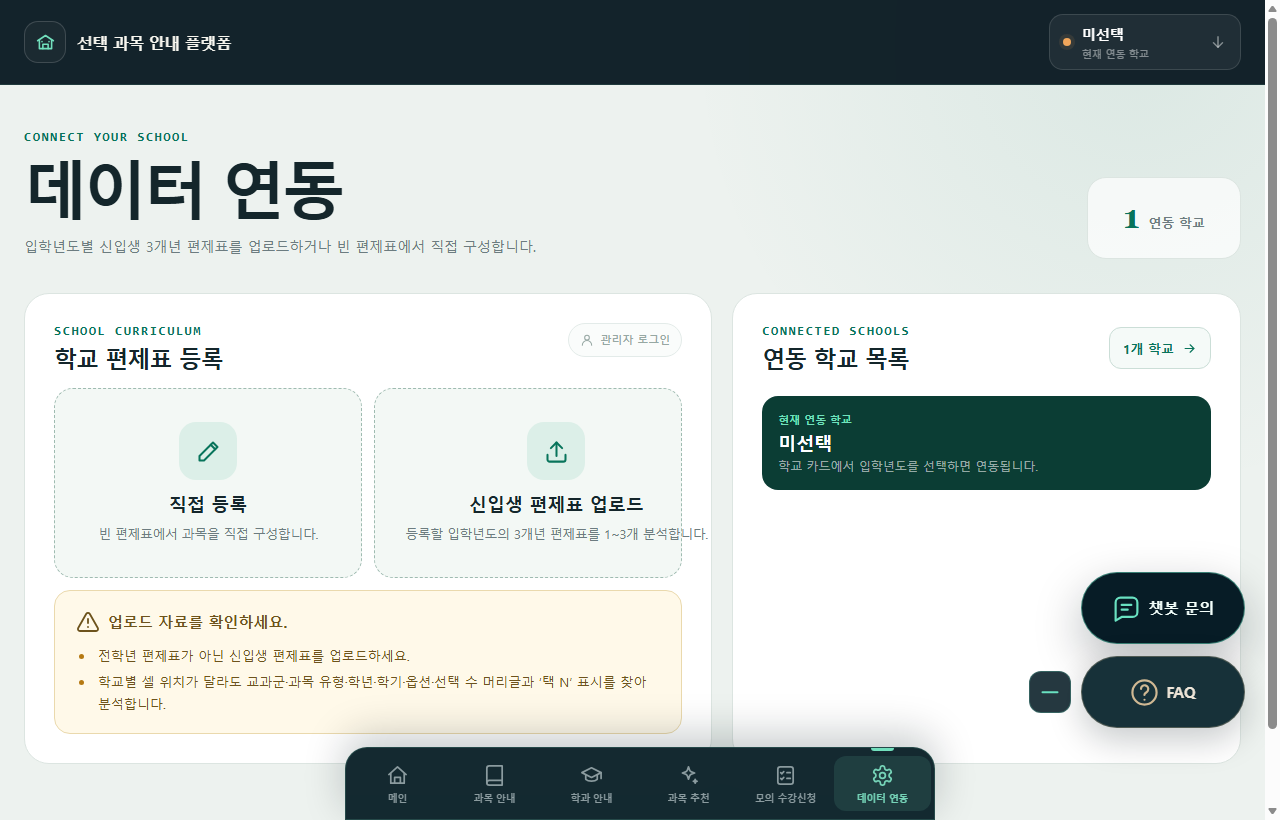
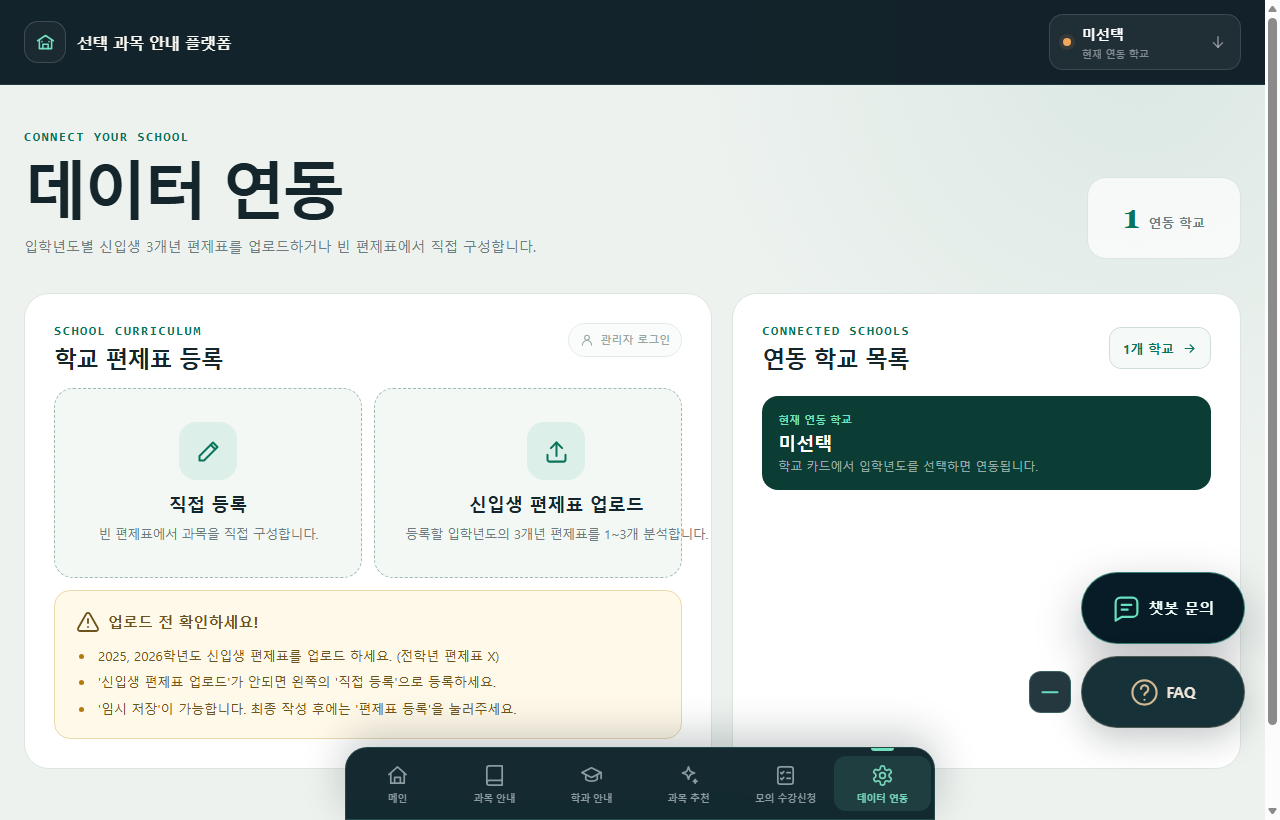
Auto sync: 2026-09-05 14:17:51

Changed region(s): [[0.0625, 0.7927, 0.5, 0.8841], [0.125, 0.7317, 0.2188, 0.7622]]

diff --git a/app.js b/app.js
@@ -436,6 +436,7 @@
     if (/failed to fetch|network|load failed/.test(normalized)) {
       return "서버에 연결하지 못했습니다. 인터넷 연결을 확인한 뒤 다시 시도해 주세요.";
     }
+    if (/편제표 교체 권한|현재 작업본과 일치하지 않습니다/.test(message)) return message;
     if (/[A-Za-z]{3,}/.test(message)) {
       if (context === "teacher") return "등록 비밀번호를 확인하지 못했습니다. 비밀번호를 다시 확인해 주세요.";
       if (context === "admin") return "관리자 로그인을 확인하지 못했습니다. 이메일, 비밀번호와 관리자 권한을 다시 확인해 주세요.";
@@ -469,7 +470,7 @@
 
   function schoolNamePrefix(value) {
     const schoolName = compactText(value);
-    return schoolName.endsWith("고등학교") ? schoolName.slice(0, -"고등학교".length).trim() : schoolName;
+    return schoolName.replace(/(?:\s*고등학교)+$/u, "").trim();
   }
 
   function completeSchoolName(value) {
@@ -4253,7 +4254,7 @@
       : "아직 임시저장하지 않았습니다.";
     const publishLabel = state.curriculumBusy ? "DB에 저장 중"
       : isAdminEdit ? "편제표 수정"
-        : "편제표 등록 · 교체";
+        : "편제표 등록";
     const pageTabs = curricula.map((curriculum, curriculumIndex) => {
       const gradeLabel = curriculum.grades.map((grade) => grade.grade).join("·");
       const editStatus = curriculum.courseCount ? `${gradeLabel}학년 편제 작성됨` : "아직 작성하지 않음";
@@ -4269,7 +4270,7 @@
       <nav class="curriculum-preview-pages" aria-label="파싱된 입학년도">${pageTabs}</nav>
       <div class="curriculum-editor-school-fields">
         <div class="curriculum-region-field"><span>지역</span><div class="curriculum-region-picker"><button type="button" data-curriculum-region-toggle aria-haspopup="listbox" aria-expanded="${state.curriculumRegionPickerOpen}" ${isAdminEdit ? "disabled" : ""}><span>${escapeHtml(selectedRegion || "지역을 선택하세요")}</span>${icon("arrow")}</button><div class="curriculum-region-options" role="listbox" ${state.curriculumRegionPickerOpen ? "" : "hidden"}>${regionOptions}</div></div></div>
-        <label><span>학교명</span><div class="school-name-affix"><input type="text" value="${escapeHtml(schoolNamePrefix(curricula[0]?.schoolName || pending.schoolName))}" placeholder="예: 우리" aria-label="학교명 앞부분" data-curriculum-school-name ${isAdminEdit ? "readonly aria-readonly=\"true\"" : ""}><b>고등학교</b></div></label>
+        <label><span>학교명</span><input type="text" value="${escapeHtml(completeSchoolName(curricula[0]?.schoolName || pending.schoolName))}" placeholder="예: 우리고등학교" aria-label="학교명" data-curriculum-school-name ${isAdminEdit ? "readonly aria-readonly=\"true\"" : ""}></label>
         <div><span>${isManual ? "작성 현황" : isAdminEdit ? "등록 현황" : "파싱 현황"}</span><strong data-curriculum-total-summary>총 ${pending.courseCount.toLocaleString("ko-KR")}과목</strong><small data-curriculum-unlisted-summary>${pending.unlistedCourseCount ? `고시 외 ${pending.unlistedCourseCount.toLocaleString("ko-KR")}과목` : "모든 과목이 앱 DB와 연결됨"}</small></div>
       </div>
       ${!isManual && Array.isArray(pending.parseWarnings) && pending.parseWarnings.length ? `<aside class="curriculum-parse-warning" role="status">${icon("warning")}<div><strong>유연 분석 결과를 확인하세요.</strong>${pending.parseWarnings.map((warning) => `<p>${escapeHtml(warning)}</p>`).join("")}</div></aside>` : ""}
@@ -4279,7 +4280,7 @@
         <nav class="curriculum-preview-grade-pages" aria-label="학년별 편제 페이지">${gradeTabs}</nav>
         <div class="curriculum-editor-grades"><section class="curriculum-grade-editor"><header><strong>${activeGrade.grade}학년 편제</strong><span data-curriculum-grade-editor-summary>${activeGrade.common.length + activeGrade.electives.length}과목 · 선택 옵션 ${activeGrade.options.length}</span></header><div>${activeGrade.semesters.map((semester) => curriculumEditorSemesterMarkup(activeCurriculum, state.curriculumPreviewIndex, activeGrade, semester)).join("")}</div></section></div>
       </article></div>
-      <aside class="curriculum-editor-legend"><span><i></i> 앱 과목 안내와 연결</span><span class="is-unlisted"><i></i> 고시 외 과목 · 입력명 그대로 저장</span><small>작성 중인 내용은 임시저장할 수 있으며, 등록·교체를 눌러야 학생 모의 수강신청에 공개됩니다.</small></aside>
+      <aside class="curriculum-editor-legend"><span><i></i> 앱 과목 안내와 연결</span><span class="is-unlisted"><i></i> 고시 외 과목 · 입력명 그대로 저장</span><small>작성 중인 내용은 임시저장할 수 있으며, ‘편제표 등록’을 눌러야 학생 모의 수강신청에 공개됩니다.</small></aside>
       ${isAdminEdit ? "" : `<p class="curriculum-draft-status" data-curriculum-draft-status>${escapeHtml(draftStatus)}</p>`}
       <div class="admin-button-row"><button class="primary-action" type="button" data-publish-curriculum ${state.curriculumBusy || !canPublish ? "disabled" : ""}>${publishLabel}</button>${isAdminEdit ? "" : `<button class="secondary-action" type="button" data-save-curriculum-draft ${state.curriculumBusy || !canPublish ? "disabled" : ""}>임시저장</button>`}<button class="text-action" type="button" data-clear-curriculum-preview>취소</button></div>
       ${!canPublish ? '<small class="preview-help">등록 비밀번호를 확인하면 편제표 등록과 임시저장을 사용할 수 있습니다.</small>' : `<small class="preview-help">현재 열린 ${activeCurriculum.admissionYear}년 입학생 편제표 한 건만 등록됩니다. 다른 입학년도는 해당 탭에서 별도로 등록하세요.</small>`}
@@ -4308,7 +4309,7 @@
     </form>`;
     const teacherIdentityForm = `<form class="school-auth-form" data-teacher-school-form>
       <div class="school-auth-region-field"><span>지역</span><button type="button" data-school-auth-region-toggle aria-haspopup="listbox" aria-expanded="${state.schoolAuthRegionOpen}"><span>${escapeHtml(state.schoolAuthRegion || "지역을 선택하세요")}</span>${icon("arrow")}</button><input type="hidden" name="region" value="${escapeHtml(state.schoolAuthRegion)}"><div class="school-auth-region-options" role="listbox" ${state.schoolAuthRegionOpen ? "" : "hidden"}>${authRegionOptions}</div></div>
-      <label><span>학교명</span><div class="school-name-affix"><input type="text" name="schoolName" value="${escapeHtml(schoolNamePrefix(state.schoolAuthSchoolName))}" autocomplete="organization" required placeholder="예: 우리" aria-label="학교명 앞부분"><b>고등학교</b></div></label>
+      <label><span>학교명</span><input type="text" name="schoolName" value="${escapeHtml(completeSchoolName(state.schoolAuthSchoolName))}" autocomplete="organization" required placeholder="예: 우리고등학교" aria-label="학교명"></label>
       <p class="school-auth-draft-help">동일한 지역·학교명으로 저장한 작업이 있으면 마지막 임시저장본을 먼저 불러옵니다.</p>
       <button class="primary-action" type="submit">학교 확인 후 ${actionLabel} 계속</button>
     </form>`;
@@ -4346,7 +4347,7 @@
               <small>등록할 입학년도의 3개년 편제표를 1~3개 분석합니다.</small>
             </button>
           </div>
-          <aside class="curriculum-format-notice" role="note"><header>${icon("warning")}<strong>업로드 자료를 확인하세요.</strong></header><ul><li>전학년 편제표가 아닌 신입생 편제표를 업로드하세요.</li><li>학교별 셀 위치가 달라도 교과군·과목 유형·학년·학기·옵션·선택 수 머리글과 ‘택 N’ 표시를 찾아 분석합니다.</li></ul></aside>
+          <aside class="curriculum-format-notice" role="note"><header>${icon("warning")}<strong>업로드 전 확인하세요!</strong></header><ul><li>2025, 2026학년도 신입생 편제표를 업로드 하세요. (전학년 편제표 X)</li><li>'신입생 편제표 업로드'가 안되면 왼쪽의 '직접 등록'으로 등록하세요.</li><li>'임시 저장'이 가능합니다. 최종 작성 후에는 '편제표 등록'을 눌러주세요.</li></ul></aside>
           ${state.curriculumImportMessage ? `<p class="import-message ${state.pendingCurriculum ? "" : "is-error"}" role="status">${escapeHtml(state.curriculumImportMessage)}</p>` : ""}
           ${curriculumPreviewMarkup()}
         </section>
@@ -5925,15 +5926,31 @@
         showCurriculumAlert("등록 전 확인할 항목이 있습니다", validationMessage, "편제표 등록 확인");
         return;
       }
-      const publishingCurriculum = pendingCurricula[0];
+      const publishingCurriculum = JSON.parse(JSON.stringify(pendingCurricula[0]));
+      const workspaceSnapshot = JSON.parse(JSON.stringify(state.pendingCurriculum));
+      const workspaceCurricula = Array.isArray(workspaceSnapshot.curricula) ? workspaceSnapshot.curricula : [workspaceSnapshot];
+      const schoolName = compactText(publishingCurriculum.schoolName || workspaceSnapshot.schoolName);
+      const region = publishingCurriculum.region || workspaceSnapshot.region || "";
+      const entryMode = workspaceSnapshot.sourceFormat === "manual"
+        || workspaceCurricula.every((curriculum) => curriculum.sourceFormat === "manual") ? "manual" : "upload";
       state.curriculumBusy = true;
-      state.curriculumImportMessage = `DB에 ${publishingCurriculum.admissionYear}년 입학생 편제표를 저장하고 있습니다.`;
+      state.curriculumImportMessage = `현재 작업본을 보관하고 DB에 ${publishingCurriculum.admissionYear}년 입학생 편제표를 저장하고 있습니다.`;
       const originalPublishText = publishCurriculumButton.textContent;
       const draftButton = root.querySelector("[data-save-curriculum-draft]");
       publishCurriculumButton.disabled = true;
       publishCurriculumButton.textContent = "DB에 저장 중";
       if (draftButton) draftButton.disabled = true;
       try {
+        if (!schoolStore.saveCurriculumDraft) throw new Error("현재 작업본 저장 기능을 사용할 수 없습니다.");
+        const savedDraft = await schoolStore.saveCurriculumDraft({
+          id: state.curriculumDraftId,
+          schoolName,
+          region,
+          entryMode,
+          data: workspaceSnapshot
+        });
+        state.curriculumDraftId = savedDraft.id;
+        state.curriculumDraftUpdatedAt = savedDraft.updatedAt;
         const result = await schoolStore.publishCurriculum(publishingCurriculum);
         syncSchoolState(result);
         syncSchoolSimulationSubjects(true);
@@ -5943,7 +5960,7 @@
         refreshCurriculumPreviewSelectionInPlace({ pageChanged: true });
         showCurriculumAlert(
           `${publishingCurriculum.admissionYear}년 입학생 편제표 ${actionLabel} 완료`,
-          "현재 입학년도 편제표를 저장했습니다. 확인을 누르면 편제표 등록 화면으로 돌아갑니다.",
+          "현재 입학년도 편제표와 마지막 작업본을 함께 저장했습니다. 확인을 누르면 편제표 등록 화면으로 돌아갑니다.",
           "편제표 저장 완료",
           "success",
           closeCurriculumPreview
@@ -6333,7 +6350,7 @@
       pendingCurriculumItems().forEach((curriculum) => { curriculum.schoolName = schoolName; });
       if (state.pendingCurriculum) state.pendingCurriculum.schoolName = schoolName;
       preparePendingCurriculumForEditing();
-      event.target.value = schoolNamePrefix(schoolName);
+      event.target.value = schoolName;
       return;
     }
     if (event.target.matches("[data-curriculum-region-edit]")) {

diff --git a/school-data.js b/school-data.js
@@ -432,6 +432,25 @@
     return String(value || "").replace(/\s+/g, "").toLocaleLowerCase("ko");
   }
 
+  function stableJsonValue(value) {
+    if (Array.isArray(value)) return value.map(stableJsonValue);
+    if (!value || typeof value !== "object") return value;
+    return Object.keys(value).sort().reduce((result, key) => {
+      if (value[key] !== undefined) result[key] = stableJsonValue(value[key]);
+      return result;
+    }, {});
+  }
+
+  function curriculumContentFingerprint(value) {
+    return JSON.stringify(stableJsonValue({
+      admissionYear: Number(value?.admissionYear ?? value?.admission_year) || null,
+      grades: Array.isArray(value?.grades) ? value.grades : [],
+      courseMetadata: value?.courseMetadata && typeof value.courseMetadata === "object" ? value.courseMetadata : {},
+      courseCount: Number(value?.courseCount) || 0,
+      unlistedCourseCount: Number(value?.unlistedCourseCount) || 0
+    }));
+  }
+
   function validateSchoolIdentity(input) {
     const name = String(input?.schoolName || "").trim();
     const region = String(input?.region || "").trim();
@@ -631,6 +650,7 @@
       updated_by: user.id,
       updated_at: new Date().toISOString()
     };
+    const expectedFingerprint = curriculumContentFingerprint(payload.data);
     const { data: existing, error: lookupError } = await client
       .from("curricula")
       .select("id")
@@ -639,14 +659,25 @@
       .maybeSingle();
     if (lookupError) throw lookupError;
     let action = "inserted";
+    let savedRow = null;
     if (existing?.id) {
-      const { error } = await client.from("curricula").update(payload).eq("id", existing.id);
+      const { data, error } = await client.from("curricula").update(payload).eq("id", existing.id)
+        .select("id, school_id, admission_year, data, updated_at").maybeSingle();
       if (error) throw error;
+      savedRow = data;
+      if (!savedRow?.id) {
+        throw new Error("편제표 교체 권한이 DB에 적용되지 않아 저장되지 않았습니다. Supabase의 편제표 수정 정책을 적용해 주세요.");
+      }
       action = "updated";
     } else {
-      const { error } = await client.from("curricula").insert(payload);
+      const { data, error } = await client.from("curricula").insert(payload)
+        .select("id, school_id, admission_year, data, updated_at").single();
       if (error?.code === "23505") throw new Error(`${school.name} ${admissionYear}학년도 편제표는 이미 등록되어 있습니다.`);
       if (error) throw error;
+      savedRow = data;
+    }
+    if (!savedRow?.data || curriculumContentFingerprint(savedRow.data) !== expectedFingerprint) {
+      throw new Error("DB에 저장된 편제표가 현재 작업본과 일치하지 않습니다. 다시 등록해 주세요.");
     }
     await loadSchools();
     selectedSchool = schools.find((item) => item.id === school.id) || school;
@@ -654,6 +685,9 @@
     selectionStorage().setItem(SELECTED_SCHOOL_KEY, school.id);
     selectionStorage().setItem(SELECTED_ADMISSION_YEAR_KEY, String(admissionYear));
     await loadCurriculum(school.id, admissionYear);
+    if (!curriculum || curriculumContentFingerprint(curriculum) !== expectedFingerprint) {
+      throw new Error("저장 직후 편제표를 다시 확인했지만 현재 작업본과 일치하지 않습니다.");
+    }
     emitChange("publish");
     return { ...snapshot(), action };
   }

diff --git a/section.html b/section.html
@@ -7,7 +7,7 @@
   <title>학과·선택과목 조회 · 선택 과목 안내 플랫폼</title>
   <meta name="description" content="학교별 편제표와 연동되는 과목 선택 안내 플랫폼">
   <link rel="stylesheet" href="styles.css?v=20260905-5">
-  <link rel="stylesheet" href="app.css?v=20260905-12">
+  <link rel="stylesheet" href="app.css?v=20260905-13">
   <link rel="stylesheet" href="chatbot.css?v=20260905-6">
 </head>
 <body class="app-page">
@@ -89,9 +89,9 @@
   <script src="https://cdn.jsdelivr.net/npm/exceljs@4.4.0/dist/exceljs.min.js"></script>
   <script src="https://cdn.jsdelivr.net/npm/html2canvas@1.4.1/dist/html2canvas.min.js"></script>
   <script src="supabase-config.js?v=20260905-2"></script>
-  <script src="school-data.js?v=20260905-4"></script>
+  <script src="school-data.js?v=20260905-5"></script>
   <script src="app-data.js?v=20260905-3"></script>
-  <script src="app.js?v=20260905-7"></script>
+  <script src="app.js?v=20260905-9"></script>
   <script src="chatbot-engine.js?v=20260905-6"></script>
   <script src="chatbot.js?v=20260905-7"></script>
 </body>

diff --git a/app.css b/app.css
@@ -6595,7 +6595,7 @@ body.is-platform-image-capturing .platform-print-root {
 
 .curriculum-editor-school-fields {
   display: grid;
-  grid-template-columns: minmax(150px, 0.9fr) minmax(210px, 1.25fr) minmax(140px, 0.75fr);
+  grid-template-columns: minmax(180px, 220px) minmax(260px, 340px) minmax(180px, 1fr);
   gap: 9px;
   margin-top: 14px;
   padding: 12px;

diff --git a/index.html b/index.html
@@ -95,7 +95,7 @@
   </nav>
 
   <script src="supabase-config.js?v=20260905-2"></script>
-  <script src="school-data.js?v=20260905-4"></script>
+  <script src="school-data.js?v=20260905-5"></script>
   <script src="landing.js?v=20260905-4"></script>
   <script src="app-data.js?v=20260905-3"></script>
   <script src="chatbot-engine.js?v=20260905-6"></script>

diff --git a/supabase/README.md b/supabase/README.md
@@ -39,11 +39,13 @@ window.SUPABASE_CONFIG = {
 3. **직접 등록** 또는 **신입생 편제표 업로드**를 누르면 먼저 `teacherEmail`로 지정한 Supabase Auth 계정의 등록 비밀번호만 확인합니다.
 4. 비밀번호 확인이 끝난 다음 화면에서 지역과 학교명을 입력합니다. 동일한 계정·지역·학교명으로 임시저장한 편제표가 있으면 가장 최근 저장본을 자동으로 불러옵니다.
 5. 임시저장본이 없고 업로드를 선택한 경우 파일 선택 창이 열립니다. 세 파일을 한꺼번에 선택하면 플랫폼이 교과군·과목 유형·학년·학기·옵션·선택 수 머리글과 `택 N` 표시를 찾아 분석합니다.
-6. 편집 화면 아래에서 **임시저장**을 누르면 입력이 덜 끝난 상태도 비공개 작업본으로 저장됩니다. **편제표 등록·교체**를 눌러야 학생 시뮬레이션에 공개되며, 등록이 끝나면 해당 임시저장본은 삭제됩니다.
+6. 편집 화면 아래에서 **임시저장**을 누르면 입력이 덜 끝난 상태도 비공개 작업본으로 저장됩니다. **편제표 등록**을 누르면 현재 선택한 입학년도의 편제표가 학생 시뮬레이션에 공개되고, 편집 화면 전체도 최신 작업본으로 함께 저장되어 다음 접속 때 다시 불러올 수 있습니다.
 
 담당 교사 등록 인증은 편제표 저장 또는 편집 취소 시 자동으로 종료됩니다. 다음 직접 등록·업로드 작업을 시작할 때 비밀번호를 다시 확인합니다. 관리자 로그인 세션은 우측 상단에서 직접 로그아웃할 때까지 유지됩니다.
 
 임시저장 기능만 추가할 때는 Supabase Dashboard의 **SQL Editor → New query**에서 `supabase/install-curriculum-drafts.sql` 전체를 한 번 실행하면 됩니다. 전체 구조를 처음 설치하는 경우에는 `supabase/schema.sql`을 실행하세요. 앱은 `curriculum_drafts`가 설치된 즉시 Supabase 원격 임시저장을 우선 사용하며, 등록 비밀번호 원문은 임시저장 테이블에 기록하지 않습니다.
+
+기존에 설치한 프로젝트에서 담당 교사가 이미 등록된 학교·입학년도의 편제표를 교체할 때는 `supabase/install-teacher-curriculum-publish.sql`도 SQL Editor에서 한 번 실행하세요. 이전의 관리자 전용 수정 정책이 남아 있으면 수정 요청이 0건으로 끝날 수 있으며, 최신 앱은 이 경우 성공으로 표시하지 않고 정책 적용이 필요하다는 오류를 보여 줍니다.
 
 관리자는 편제표 등록 카드 우측 상단의 작은 **관리자 로그인** 버튼에서 이메일·비밀번호로 로그인합니다. 로그인 후 연동 학교와 입학년도를 선택하면 해당 편제표를 편집 화면으로 열어 수정하거나, 입학년도별 편제표 또는 학교의 전체 연동 데이터를 삭제할 수 있습니다.
 
